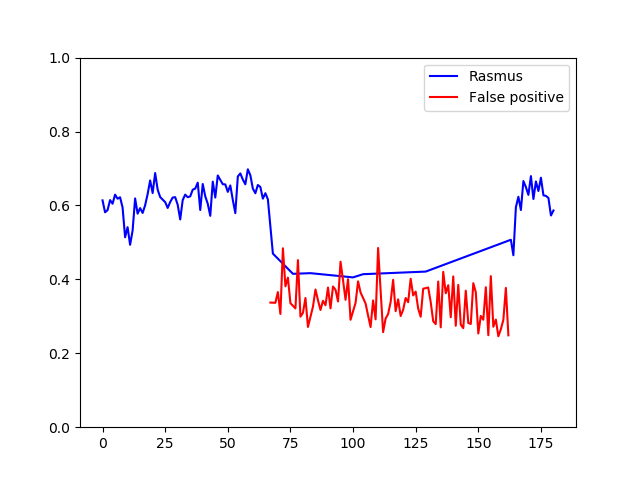
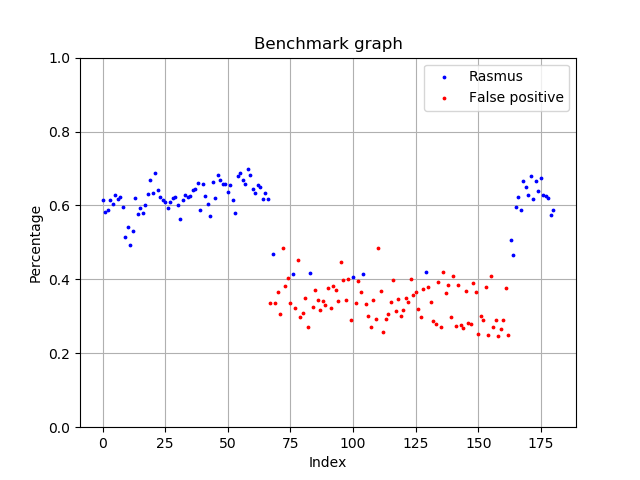
Scatter graph

diff --git a/logic/write_to_csv.py b/logic/write_to_csv.py
@@ -37,10 +37,12 @@ def plot_csv_data(name, file_name):
 
     ax = plt.gca()
     ax.set_ylim([0,1])
-    #ax.invert_yaxis()
-    ax.plot(df1.index, df1["Linalg norm"], label=name, color='blue')
-    ax.plot(df2.index, df2["Linalg norm"], label='False positive', color='red')
-    #plt.xticks(rotation=90)
+    ax.scatter(df1.index, df1["Linalg norm"], s=3, label=name, color='blue', zorder=3)
+    ax.scatter(df2.index, df2["Linalg norm"], s=3, label='False positive', color='red', zorder=3)
     plt.legend(loc=1)
+    plt.title('Benchmark graph')
+    plt.xlabel('Index')
+    plt.ylabel('Percentage')
+    plt.grid(zorder=0)
     plt.savefig(os.path.join('facerec/csv_data/' + file_name[:-4] + '.png'))
     plt.show()
